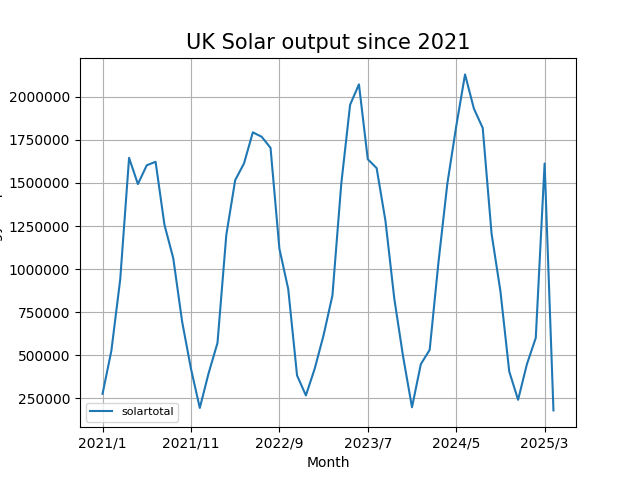
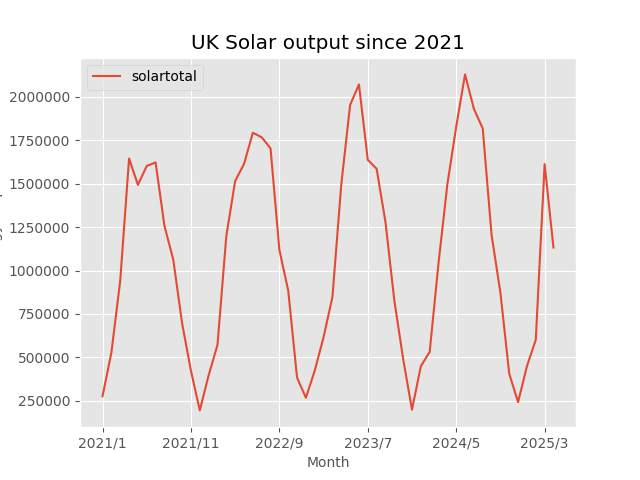
make images linkable to full image, and slight chart tweaks

diff --git a/envstats/templates/stats/solar.html b/envstats/templates/stats/solar.html
@@ -11,10 +11,10 @@
 
 <div class="row">
   <div class="col">
-    <img class="img-fluid" alt="chart showning solar generation overtime in the UK" src="{{ url_for('static', filename='images/solar1.png') }}">
+    <a href="{{ url_for('static', filename='images/solar1.png') }}"><img class="img-fluid" alt="chart showning solar generation overtime in the UK" src="{{ url_for('static', filename='images/solar1.png') }}"></a>
   </div>
   <div class="col">
-    <img class="img-fluid" alt="chart showing solar generation per year, each year has one value per month" src="{{ url_for('static', filename='images/solar2.png') }}">
+    <a href="{{ url_for('static', filename='images/solar2.png') }}"><img class="img-fluid" alt="chart showing solar generation per year, each year has one value per month" src="{{ url_for('static', filename='images/solar2.png') }}"></a>
   </div>
 </div>
 

diff --git a/envstats/stats.py b/envstats/stats.py
@@ -60,12 +60,12 @@ def get_solar_data():
 
 def create_solar_chart1(df):
     df = df[['date','solartotal']]
-    ax = df.plot(kind='line', grid=1, fontsize=10, x="date")
+    ax = df.plot(kind='line', grid=1, fontsize=10, x="date", label="Solar")
+    plt.legend()
     plt.style.use('ggplot') 
     plt.xlabel("Month",  size = 10)
-    plt.legend(fontsize="8", loc ="lower left")
-    plt.ylabel("solar energy output", size = 10)
-    plt.title("UK Solar output since 2021", size = 15)
+    plt.ylabel("Solar energy output", size = 10)
+    plt.title("UK Solar output since 2021")
     plt.ticklabel_format(style='plain', axis='y')
     plt.savefig('envstats/static/images/solar1.png')
     plt.close() 
@@ -74,14 +74,14 @@ def create_solar_chart2(df):
     df4 = split_years(df)
     plt.style.use('ggplot') 
     plt.xlabel('Month', size = 10)
-    plt.ylabel('solar output')
+    plt.ylabel('Solar output', size = 10)
     for y in df4:
         y.name = y['year'].iloc[[0]].to_string(index=False)
         plt.plot(y['solartotal'].tolist(),label= y.name)
     plt.legend(loc='best')
     plt.title('Solar output per year')
     plt.ticklabel_format(style='plain', axis='y')
-    plt.xticks([0,1,2,3,4,5,6,7,8,9,10,11], ['Jan', 'Feb', 'Mar', 'Apr','May','Jun','Jul','Aug','Sep','Oct','Nov','Dec'],rotation=20)
+    plt.xticks([0,1,2,3,4,5,6,7,8,9,10,11], ['Jan', 'Feb', 'Mar', 'Apr','May','Jun','Jul','Aug','Sep','Oct','Nov','Dec'])
     plt.savefig('envstats/static/images/solar2.png')
     plt.close() 
 
@@ -113,7 +113,7 @@ def create_solar_table1(df):
 @stats.route("/solar")
 def solarstats():
     output = {
-        "title": "UK PV Solar every output",
+        "title": "UK Solar generation",
     }
     df = get_solar_data()
     # print table 
@@ -129,6 +129,26 @@ def solarstats():
     output["latest"] = query_db(latest_query)
     return render_template("stats/solar.html", output=output)
 
+@stats.route("/solar2")
+def solarstats2():
+    output = {
+        "title": "UK PV Solar every output2",
+    }
+    df = get_solar_data()
+    # print table 
+    df5 = create_solar_table1(df)
+    create_solar_chart1(df)
+    create_solar_chart2(df)
+    # the following takes df5 and converts it to html, most of the code is for converting to floats so that we can add thousand seperators
+    output["table1"] = [df5.astype('float64',errors='ignore').to_html(float_format=lambda x: format(x,',.0f'),classes='table table-sm table-hover data')]
+    output["table1json"] = df5.to_json(orient='records')
+    # Convert the DataFrame to a dictionary for Chart.js
+    data_dict = df5.to_dict(orient='list')
+    output["tjson2"] = jsonify(data_dict)
+    # the most recent date collected
+    latest_query = "SELECT date FROM public.solar ORDER BY date DESC limit 1"
+    output["latest"] = query_db(latest_query)
+    return render_template("stats/solar.html", output=output)
 
 # for running from command line. only retrieves solar data from api
 # for those days with no data. by default check the last 30 days
